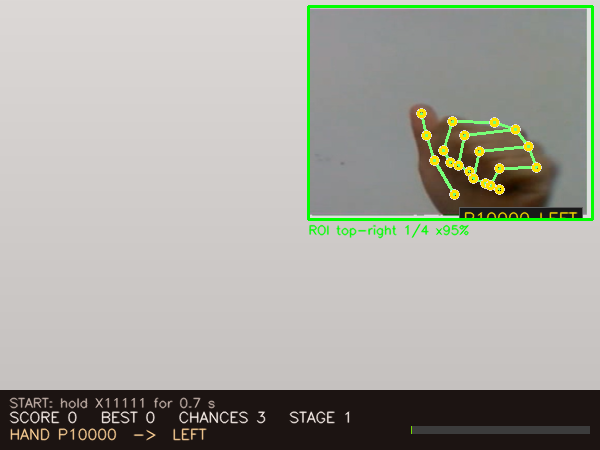
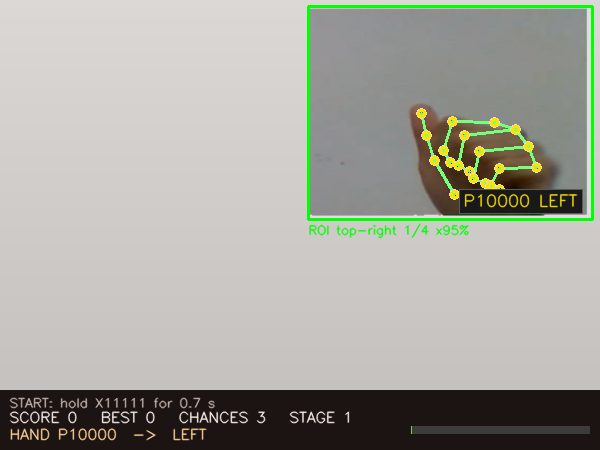
docs: keep the preview label inside the ROI and refresh the ROI picture

Changed region(s): [[0.75, 0.4044, 0.99, 0.4978]]

diff --git a/gesture_single.py b/gesture_single.py
@@ -384,7 +384,7 @@ class SingleHandRecognizer(object):
         y = int(points[WRIST].y * height)
         label = format_label(self._stable)
         label_x = min(max(4, x - 30), max(4, width - 120))
-        label_y = min(max(16, y + 18), max(16, height - 8))
+        label_y = min(max(16, y + 18), max(16, height - 26))
         _text_box(roi, label, (label_x, label_y), SKELETON_COLOR, 0.55)
 
     def close(self):
